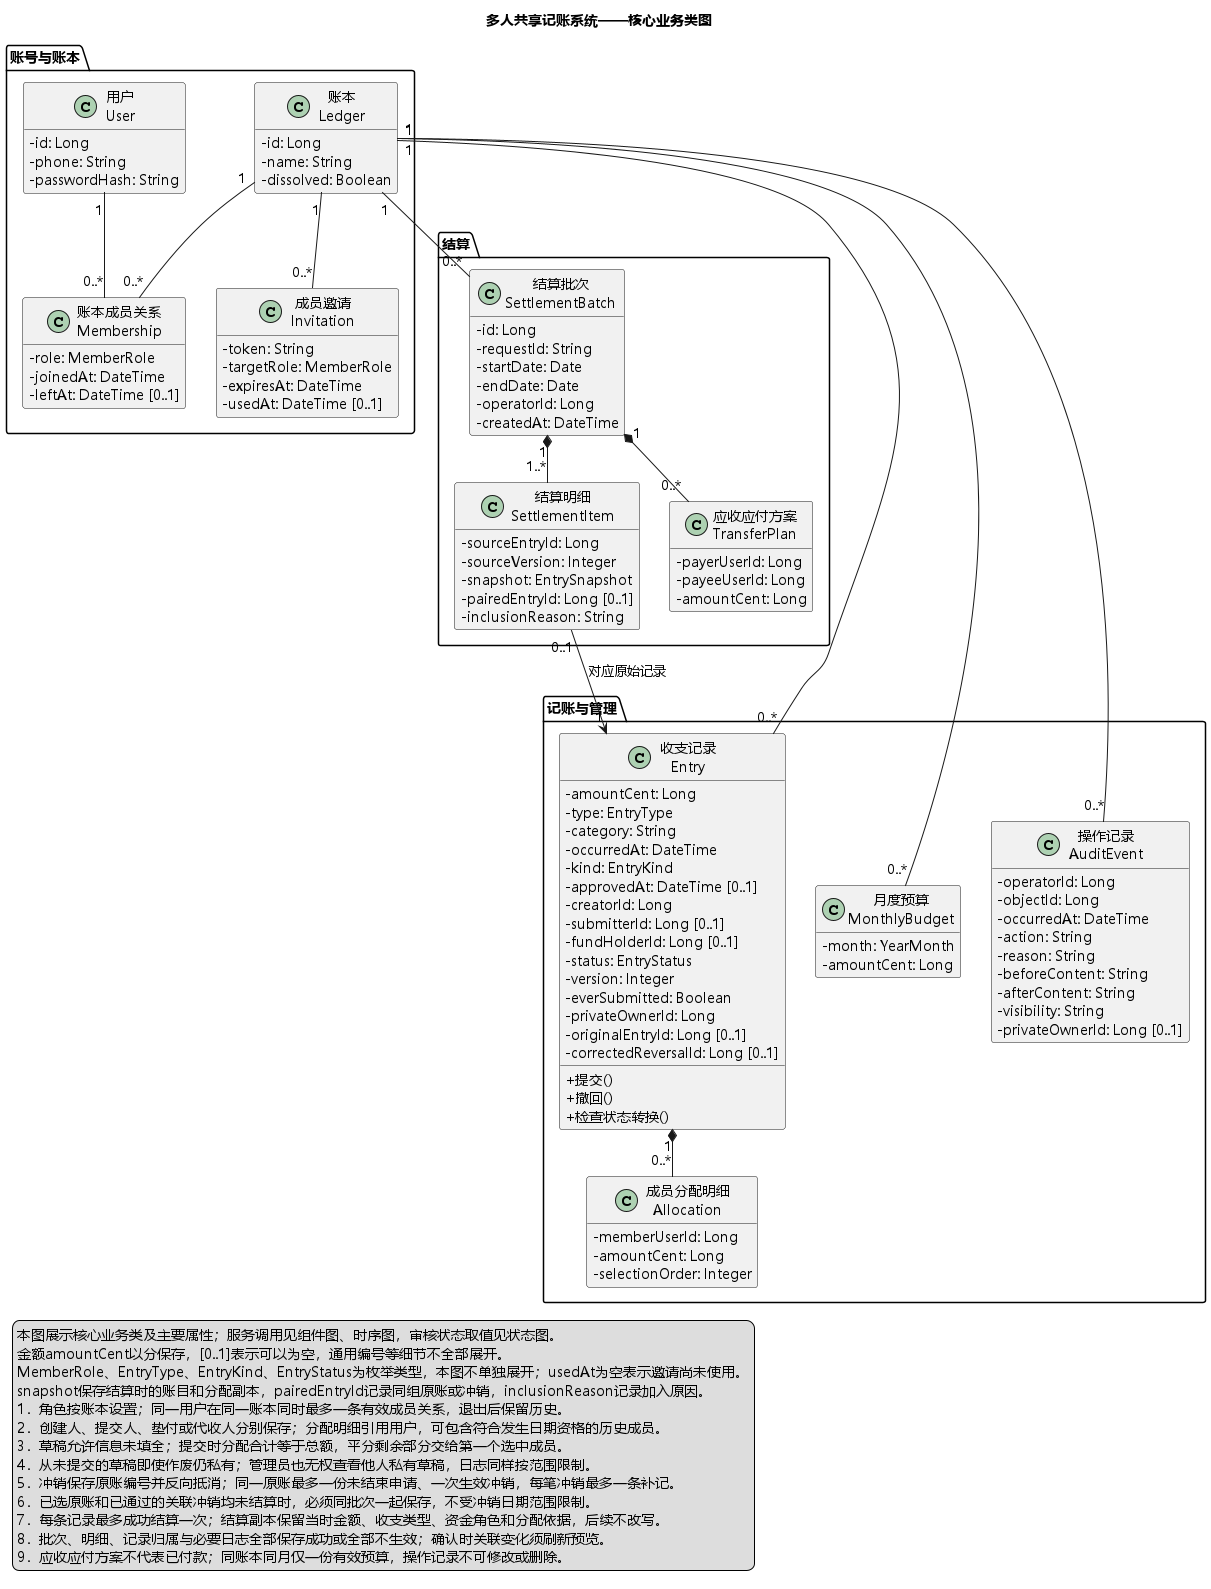
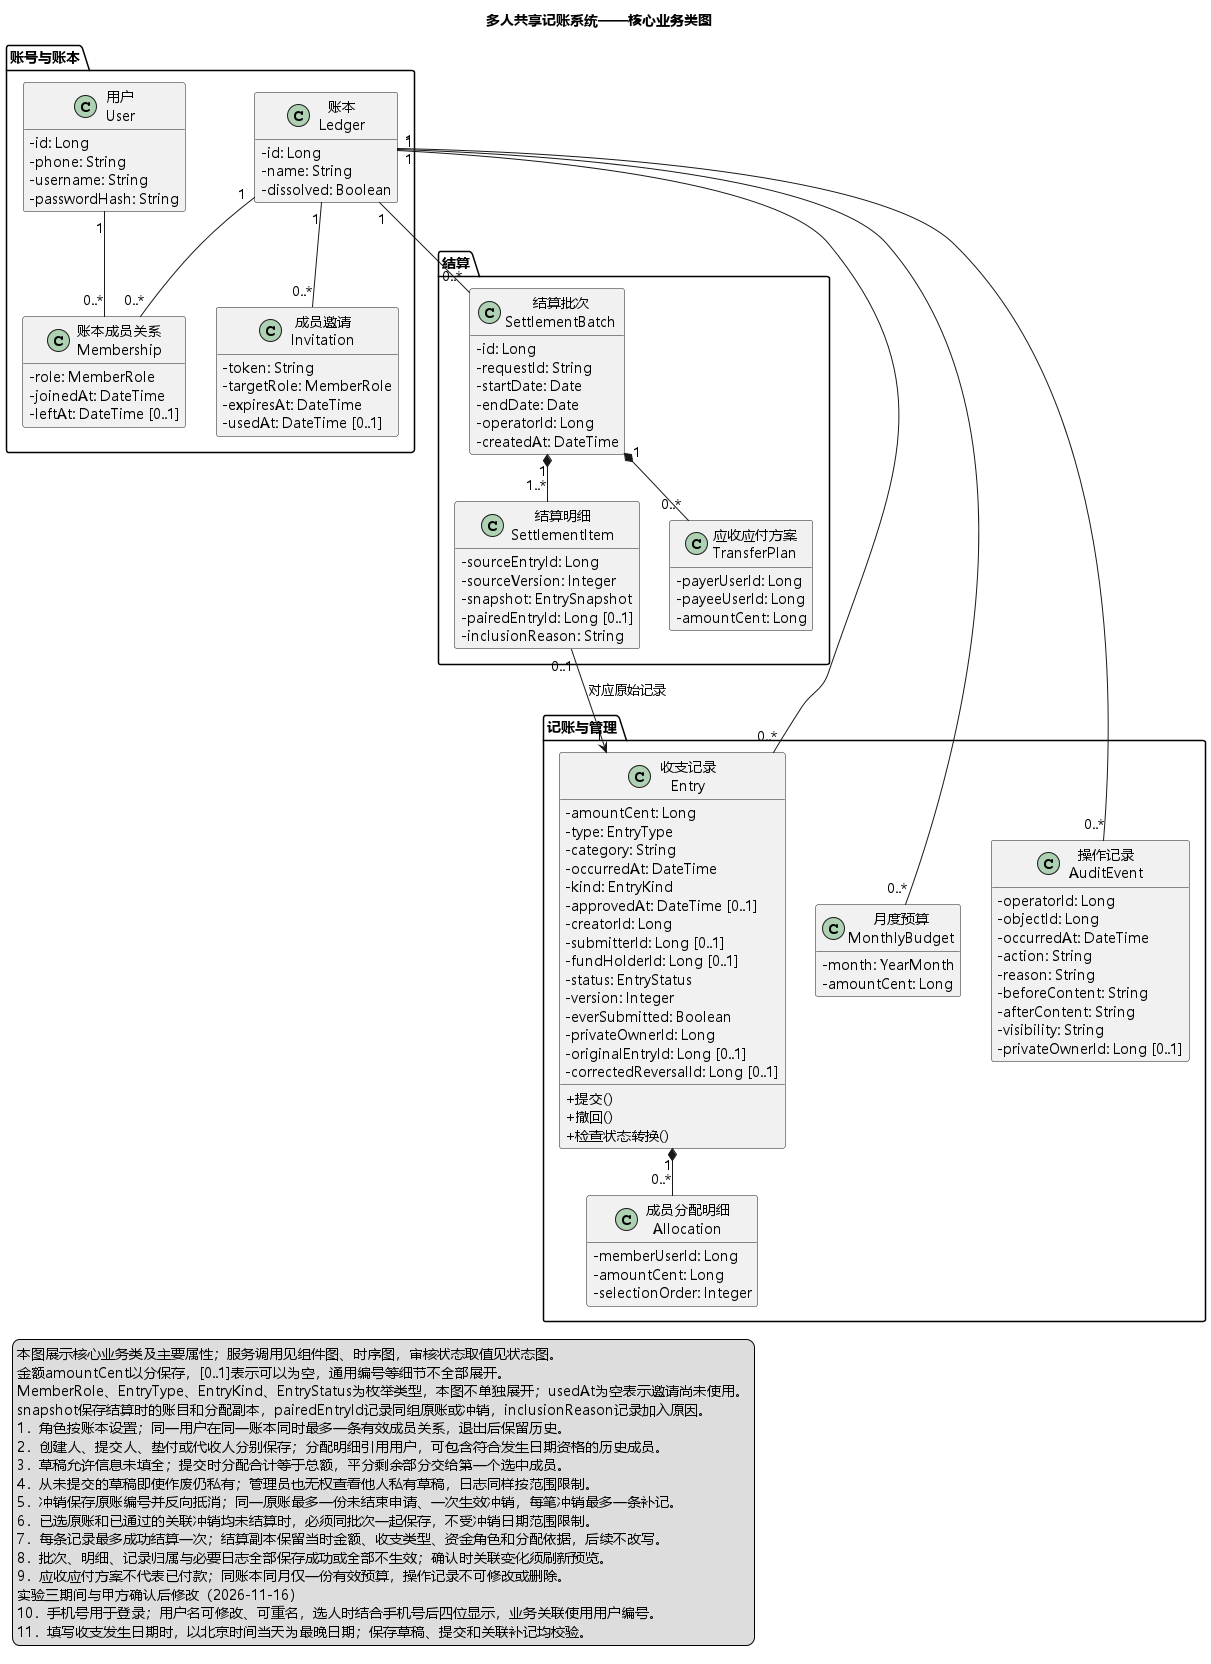
lab3和甲方确认后修改相关需求及UML

diff --git a/requirements.md b/requirements.md
@@ -2,21 +2,23 @@
 
 仓库地址：[https://github.com/catherine0223/software-engineering-lab.git]
 
-版本：实验二确认修订版　日期：2026-11-03
+版本：实验三实现阶段修订版　日期：2026-11-16
 
-> 实验一终稿日期为2026-10-29。本次记录实验二期间与甲方确认后的关联冲销成组结算变更；相关修改在REQ-011、018、019、020、021、023、027旁逐项标注。
+> 实验一终稿日期为2026-10-29。本次记录实验二期间与甲方确认后的关联冲销成组结算变更；相关修改在REQ-011、018、019、020、021、023、027旁逐项标注。实验三期间与甲方确认后修改两项规则：用户名用于选人和核对身份，以及以北京时间限制账目发生日期。见 REQ-001、007、008、023。
 
 ## REQ-001 手机号注册与登录
+
+> **实验三期间与甲方确认后修改（2026-11-16）**：注册增加用户名，供选人和身份核对；仍用手机号和密码登录。
 
 - 类型：功能需求
 - 来源：INT-01-L006、INT-01-L058；INT-02-L002、INT-02-L064
 - 优先级：高
-- 状态：已确认
-- 需求描述：提供手机号与密码注册、登录。仅支持以1开头的11位中国大陆手机号，不含国家区号、空格或其他字符；一个手机号仅注册一个账号。本阶段仅校验格式，不接短信验证。
-- 前置条件：注册提供手机号、合规密码；登录使用已存在账号。
-- 正常结果：合法注册建立用户身份；正确密码登录，清除连续失败次数并进入有权访问的账本。
+- 状态：已变更（实验三期间与甲方确认后修改，2026-11-16）
+- 需求描述：界面注册填写手机号、用户名和密码；登录使用已注册的手机号和密码。仅支持以1开头的11位中国大陆手机号，不含国家区号、空格或其他字符；一个手机号仅注册一个账号。本阶段仅校验格式，不接短信验证。
+- 前置条件：注册提供手机号、用户名及合规密码；登录使用已存在账号。
+- 正常结果：合法注册建立用户身份。用户名去除首尾空白后须为 1～24 个字符，登录后可设置或修改。正确密码登录，清除连续失败次数并进入有权访问的账本。
 - 异常或边界情况：重复注册提示“该手机号已注册，请登录”。账号不存在或密码错误统一提示“手机号或密码错误”；同一账号连续失败5次暂停登录15分钟，到期自动解除、不人工解锁，限制期内正确密码也不能登录。不承诺手机号真实归属。
-- 验收方法：测试手机号格式、重复注册、错误账号和密码；第5次失败后立即使用正确密码仍受限，15分钟到期可登录，成功后失败计数清除；结合REQ-028验证密码规则。
+- 验收方法：测试手机号格式、重复注册、错误账号和密码；第5次失败后立即使用正确密码仍受限，15分钟到期可登录，成功后失败计数清除；结合REQ-028验证密码规则。验证用户名注册时必填、可以重名、改名后仍可用原手机号登录。
 - 关联需求：REQ-023、REQ-028
 
 ## REQ-002 创建账本及多账本使用
@@ -86,26 +88,30 @@
 
 ## REQ-007 新增收支记录
 
+> **实验三期间与甲方确认后修改（2026-11-16）**：明确日期边界。记账日历只允许选择北京时间当天及以前的日期。保存或提交时由业务层再次校验。未来月份的预算依 REQ-015 仍可设置。
+
 - 类型：功能需求
 - 来源：INT-01-L014、INT-01-L020；INT-02-L006、INT-02-L016、INT-02-L018、INT-02-L020、INT-02-L022、INT-02-L056；INT-03-L002、INT-03-L006
 - 优先级：高
-- 状态：已确认
-- 需求描述：记账成员和管理员新增收入或支出，分别保存提交人、资金角色、分配明细、金额、类别、发生时间、备注。支出关联一名垫付人与承担名单，收入关联一名代收人与受益名单；允许A提交、B垫付、多人分摊。可先存草稿再提交，备注可空。
+- 状态：已变更（实验三期间与甲方确认后修改，2026-11-16）
+- 需求描述：记账成员和管理员新增收入或支出，分别保存提交人、资金角色、分配明细、金额、类别、发生时间、备注。支出关联一名垫付人与承担名单，收入关联一名代收人与受益名单；允许A提交、B垫付、多人分摊。账目发生日期不得晚于北京时间当天。可先存草稿再提交，备注可空。
 - 前置条件：当前具有账本记账权限；成员选择满足本账本历史资格，未达到普通新增上限，或满足关联纠错例外。
 - 正常结果：记录归本人按创建或提交的用户身份判断，不按资金角色判断；未审核编辑撤回仍需记账权限，草稿仅本人可见。提交时必填项及金额分配全部合法。本人草稿作废适用REQ-012的有限例外，不代表获得编辑或提交权限。
-- 异常或边界情况：草稿允许金额、类别、时间、成员暂空，已填金额合法、成员不重复且资格有效，分配合计可暂不一致。管理员不能因身份代改或代作废他人草稿；作废前未曾提交的记录仍保留私有标识、内容和原因，不进入全员可见列表。历史成员补录及满额纠错规则不变。
-- 验收方法：验证资金角色不同、空备注、未齐全草稿可存不可提交；失去记账权限后修改提交拒绝但有效只读成员可清理本人既有草稿；私有草稿作废后内容不向他人公开，满额纠错按关联链测试。
+- 异常或边界情况：草稿允许金额、类别、时间、成员暂空，已填金额合法、成员不重复且资格有效，分配合计可暂不一致。管理员不能因身份代改或代作废他人草稿；作废前未曾提交的记录仍保留私有标识、内容和原因，不进入全员可见列表。历史成员补录及满额纠错规则不变。已填写的发生日期在新增、编辑、保存草稿、提交和关联补记时均不得晚于北京时间当天。
+- 验收方法：验证资金角色不同、空备注、未齐全草稿可存不可提交；失去记账权限后修改提交拒绝但有效只读成员可清理本人既有草稿；私有草稿作废后内容不向他人公开，满额纠错按关联链测试。验证北京时间当天的账目可保存和提交，明天不可选；直接传入未来日期保存草稿、提交或修改均应拒绝。
 - 关联需求：REQ-003、REQ-008、REQ-009、REQ-013、REQ-023、REQ-024、REQ-025
 
 ## REQ-008 共同费用分摊
 
+> **实验三期间与甲方确认后修改（2026-11-16）**：选择垫付人、代收人及分配成员时，显示用户名和手机号后四位。
+
 - 类型：功能需求
 - 来源：INT-01-L016、INT-01-L018、INT-01-L046；INT-02-L018、INT-02-L022
 - 优先级：高
-- 状态：已确认
+- 状态：已变更（实验三期间与甲方确认后修改，2026-11-16）
 - 需求描述：支出支持多人承担，收入支持一名或多名受益人，均可平分或指定各人金额，分配合计等于总额。每人可为0但不能为负，成员不能重复；平分先取整分，全部余分交选择顺序的第一人。
 - 前置条件：普通记录总额合法；选择的资金角色及分配成员曾在本账本具有资格，发生时间符合其有效成员期间。
-- 正常结果：保存按选择顺序排列的名单和各人金额；只读成员可参与，单一受益人表示个人收入；历史成员不恢复访问权。
+- 正常结果：保存按选择顺序排列的名单和各人金额；只读成员可参与，单一受益人表示个人收入；历史成员不恢复访问权。选择资金角色和分配成员时显示用户名及手机号后四位；两项都相同的候选人也应能区分，旧账号未设置用户名时显示提示及尾号。
 - 异常或边界情况：本阶段不做拖动排序，需改变顺序时重新选择；可补录已退出成员有效成员期间的账目，不得选从未加入者。指定分配为负、重复成员或提交时合计不等应拒绝。
 - 验收方法：10元ABC平分为3.34、3.33、3.33；0.01元ABC为0.01、0、0；测试指定0与负值、顺序重选、只读成员及历史成员日期边界；A代收300元ABC受益各100元验证分配关系。
 - 关联需求：REQ-003、REQ-007、REQ-017、REQ-018、REQ-023、REQ-024
@@ -306,13 +312,15 @@
 
 > **实验二期间与甲方确认后修改（2026-11-03）**：要求同组原账和冲销保存在同一结算批次，并保存两者的对应关系和加入原因。
 
+> **实验三期间与甲方确认后修改（2026-11-16）**：用户名用于显示，可以重名；历史账目、成员和分配关系仍按用户编号关联。
+
 - 类型：约束
 - 来源：INT-01-L006、INT-01-L012、INT-01-L014、INT-01-L016、INT-01-L026、INT-01-L038、INT-01-L050；实验要求“所有项目都要说明的内容”第3项：数据保存、关联、唯一性及同步更新；INT-02-L002、INT-02-L004、INT-02-L010、INT-02-L012、INT-02-L016、INT-02-L018、INT-02-L022、INT-02-L030、INT-02-L034、INT-02-L042、INT-02-L054、INT-02-L056、INT-02-L058；INT-03-L002、INT-03-L006、INT-03-L008；实验二期间与甲方确认后的结算规则变更（2026-11-03）
 - 优先级：高
-- 状态：已变更（实验二期间与甲方确认后修改，2026-11-03）
+- 状态：已变更（实验二期间与甲方确认后修改，2026-11-03；实验三期间与甲方确认后修改，2026-11-16）
 - 需求描述：保存用户、账本、成员有效期间、邀请角色、普通及纠错记录、创建或提交人、资金角色和分配顺序、冲销补记链、月预算、结算快照和审计。记录额外保留是否曾提交及私有归属标识；从未提交的草稿作废不因状态变化而丢失私有属性，私有操作历史与公共日志可见范围分开。另外保存一起结算的原账与冲销之间的对应关系，以及范围外冲销加入本次结算的原因。
 - 前置条件：系统保存或更新业务记录，相关对象及权限有效。
-- 正常结果：手机号唯一；同一账本用户至多一条有效成员关系，再加入沿用原用户历史；同月一份有效预算。每笔分配无重复成员；同一原账最多一份未结束冲销、最多一次生效冲销；同一冲销最多一条关联补记，每条记录至多归属一次成功结算。按REQ-018需要一起结算的原账和冲销，必须保存在同一成功批次，不能只保存其中一条的结算归属；原账已经结算过时，不能因为后来出现冲销就再次加入新批次。
+- 正常结果：手机号唯一；用户名可以重名，仅用于显示和核对，账本成员、分配及历史记录仍按用户编号关联，改名不改变归属。同一账本用户至多一条有效成员关系，再加入沿用原用户历史；同月一份有效预算。每笔分配无重复成员；同一原账最多一份未结束冲销、最多一次生效冲销；同一冲销最多一条关联补记，每条记录至多归属一次成功结算。按REQ-018需要一起结算的原账和冲销，必须保存在同一成功批次，不能只保存其中一条的结算归属；原账已经结算过时，不能因为后来出现冲销就再次加入新批次。
 - 异常或边界情况：退出移除解散保留历史、私有内容及结算依据，不恢复访问资格；解散不自动作废遗留草稿。草稿作废不释放普通记录名额；容量仅提供总体上限提示，不显示他人私有草稿清单、单独数量或归属。其他金额分配、成员、冲销、预算及批次唯一性规则保持不变，不引入真实还款实体。
 - 验收方法：检查资金角色、成员历史、预算、冲销及批次唯一性；私有草稿作废仍保存原文原因及曾提交标识，不进他人筛选或公共日志；退出及解散后归档仍保留数据且无额外访问权，容量计数不释放。检查原账与冲销的对应关系及同批次保存情况；已经结算的记录不能再次结算；原账已经结算时，后续只处理尚未结算的冲销。
 - 关联需求：REQ-001、REQ-003、REQ-004、REQ-005、REQ-007、REQ-008、REQ-011、REQ-015、REQ-018、REQ-019、REQ-022、REQ-025、REQ-020、REQ-021
